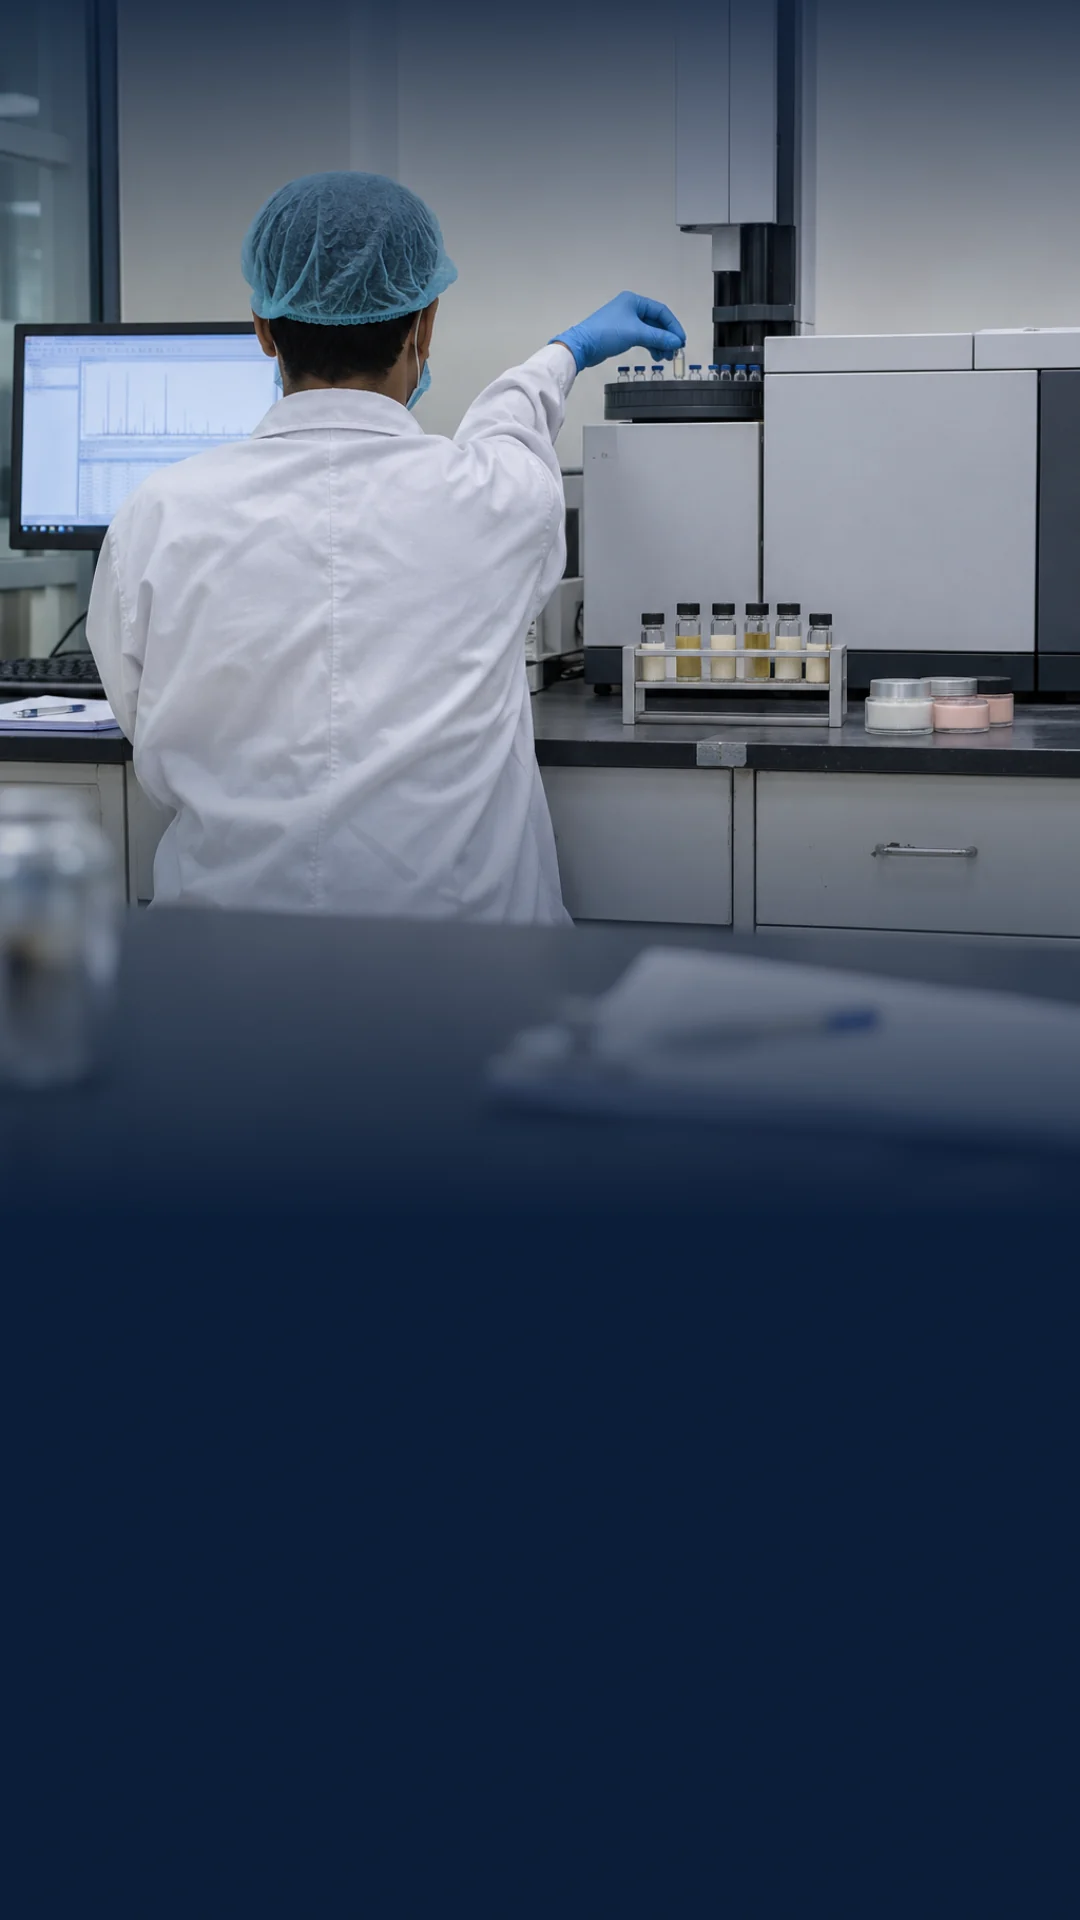
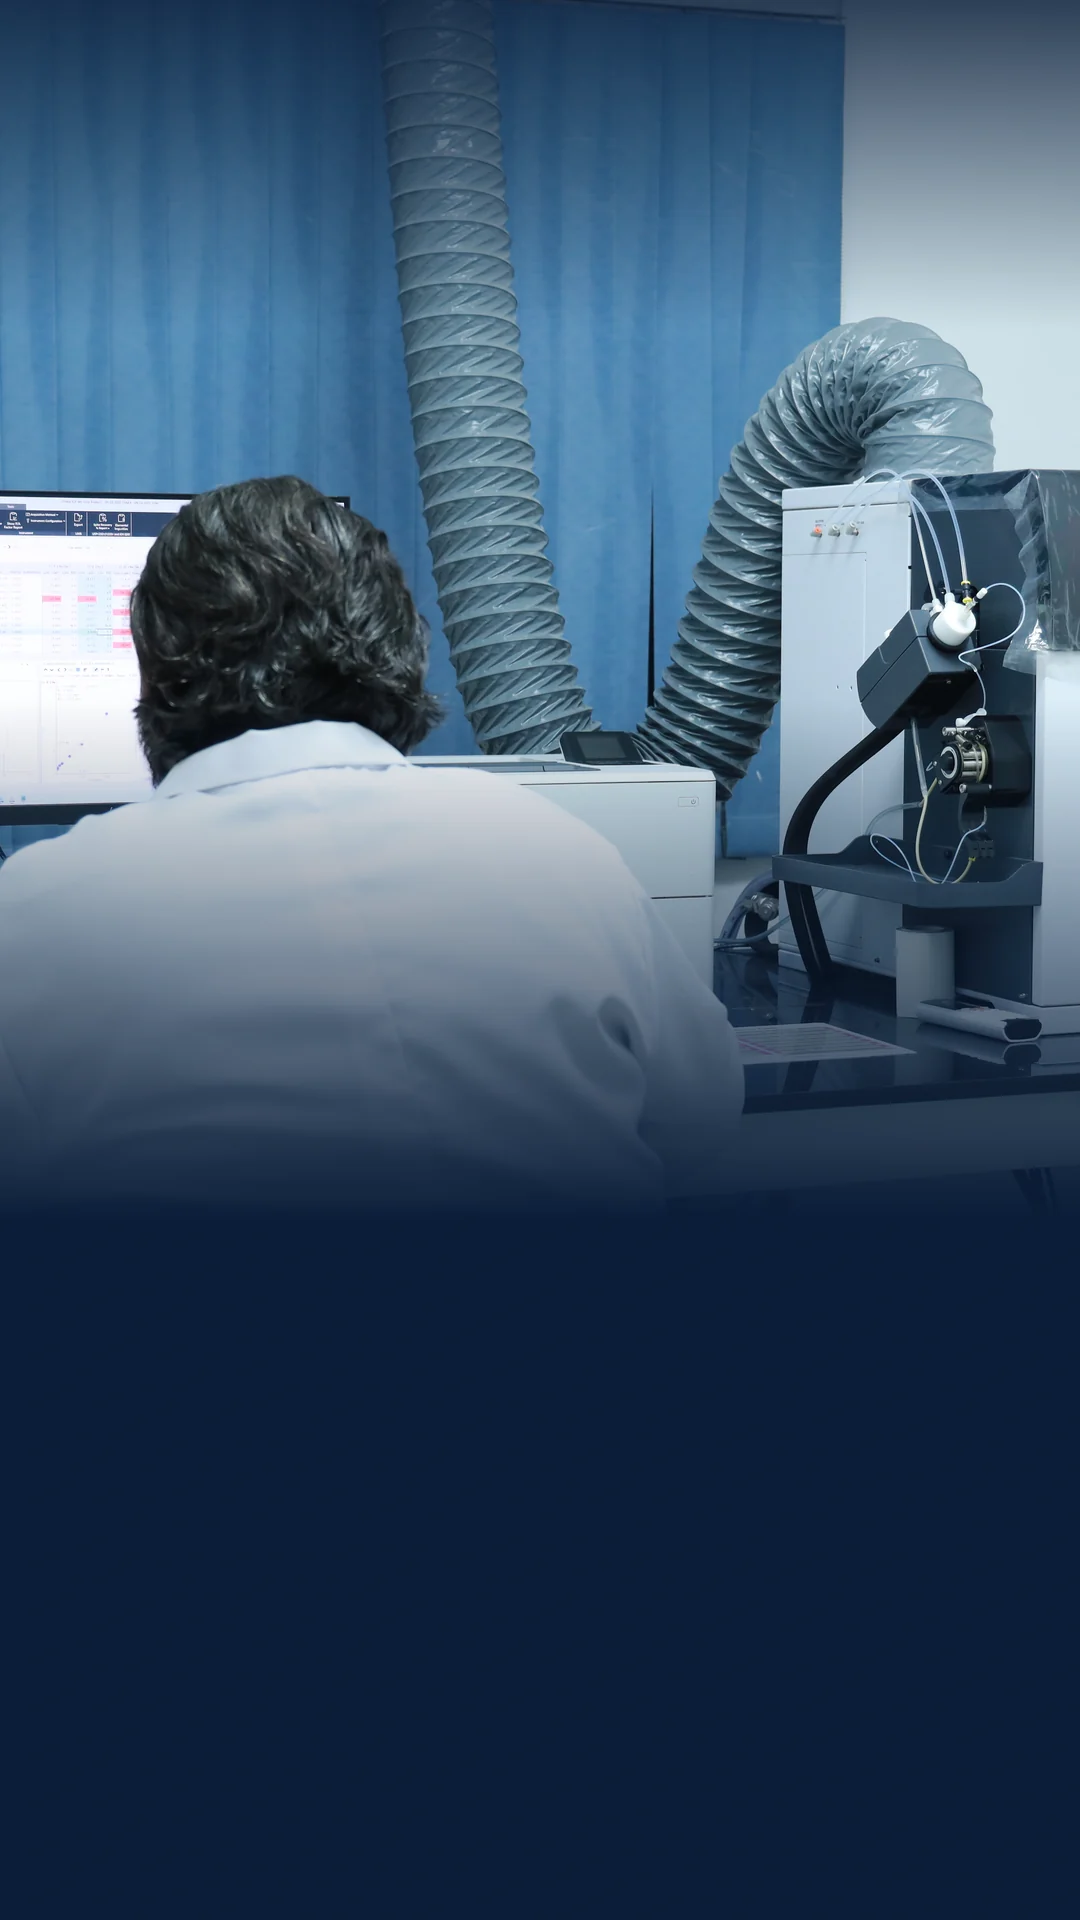
v2.8.1: cosmetics slide 3 uses a real shoot photo (AI image had a left hand on the right arm)

diff --git a/sw.js b/sw.js
@@ -3,7 +3,7 @@
 // so copying new slides to the server shows up on the next load and the screen keeps playing if the network drops.
 // Registered as sw.js?list=name for another edition (index.html), which then caches that playlist in its own cache.
 var LIST = (self.location.search.match(/list=([\w-]+)/) || [0, "main"])[1];
-var CACHE = "tti-screen" + (LIST == "main" ? "" : "-" + LIST);   // v2.8, 2026-11-10: real shoot photos on 12 own-premises slides, lobby campus remade; v2.7, 2026-11-06: Studio Photo images on 148 slides; v2.6, 2026-11-05: + Cosmetics, DPP & ESG, Microbiology, Citrus decks; v2.5, 2026-11-02: full-content edition (?list=full) (any byte change here re-caches every slide)
+var CACHE = "tti-screen" + (LIST == "main" ? "" : "-" + LIST);   // v2.8.1, 2026-11-10: cosmetics s03 real photo (AI hand fault); v2.8, 2026-11-10: real shoot photos on 12 own-premises slides, lobby campus remade; v2.7, 2026-11-06: Studio Photo images on 148 slides; v2.6, 2026-11-05: + Cosmetics, DPP & ESG, Microbiology, Citrus decks; v2.5, 2026-11-02: full-content edition (?list=full) (any byte change here re-caches every slide)
 self.addEventListener("install", function (e) {
   e.waitUntil(caches.open(CACHE).then(function (c) {
     return fetch("playlists/" + LIST + ".js", { cache: "no-store" }).then(function (r) { return r.text(); }).then(function (js) {
